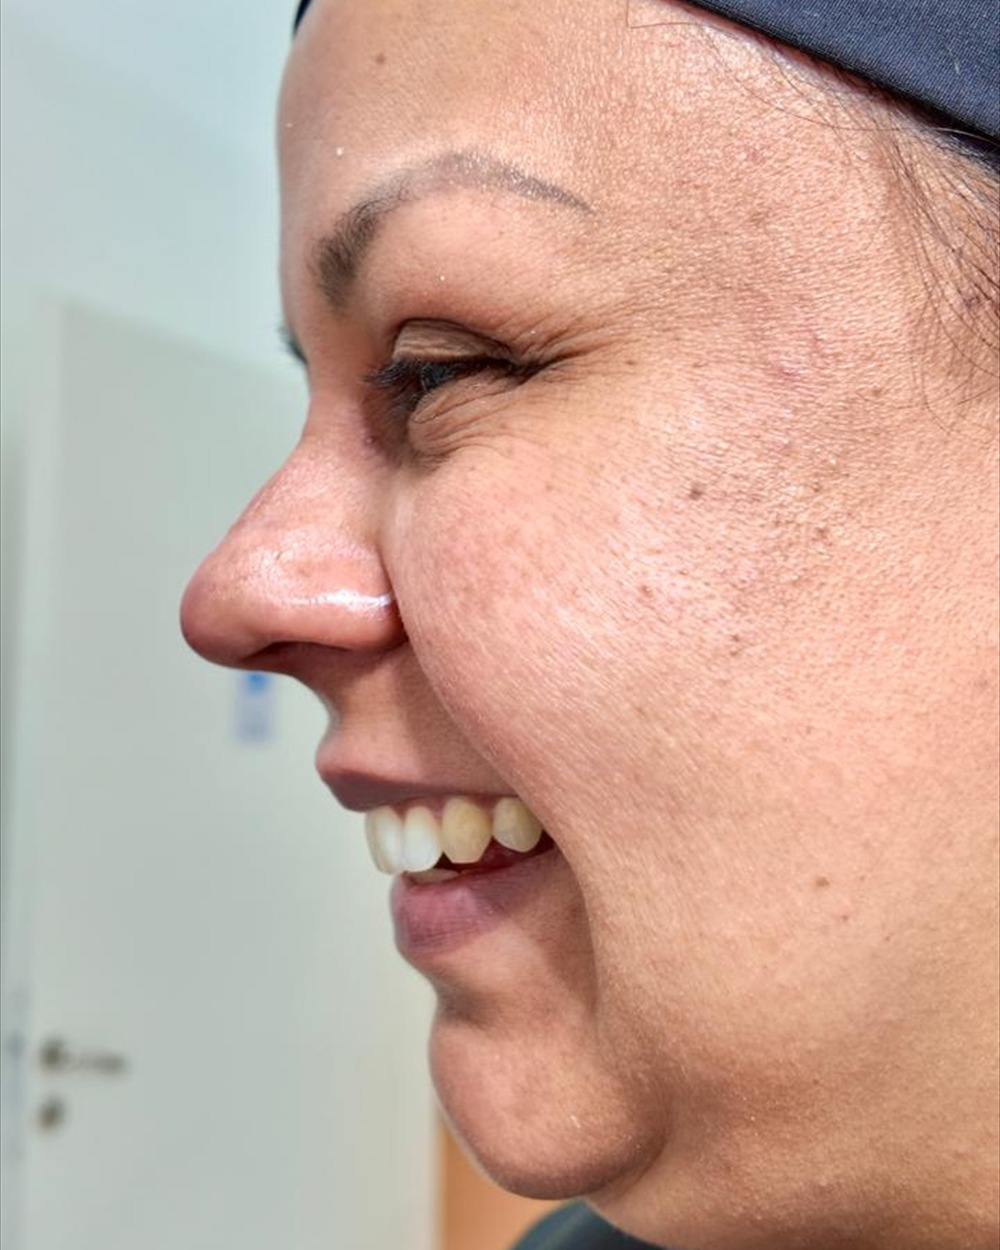
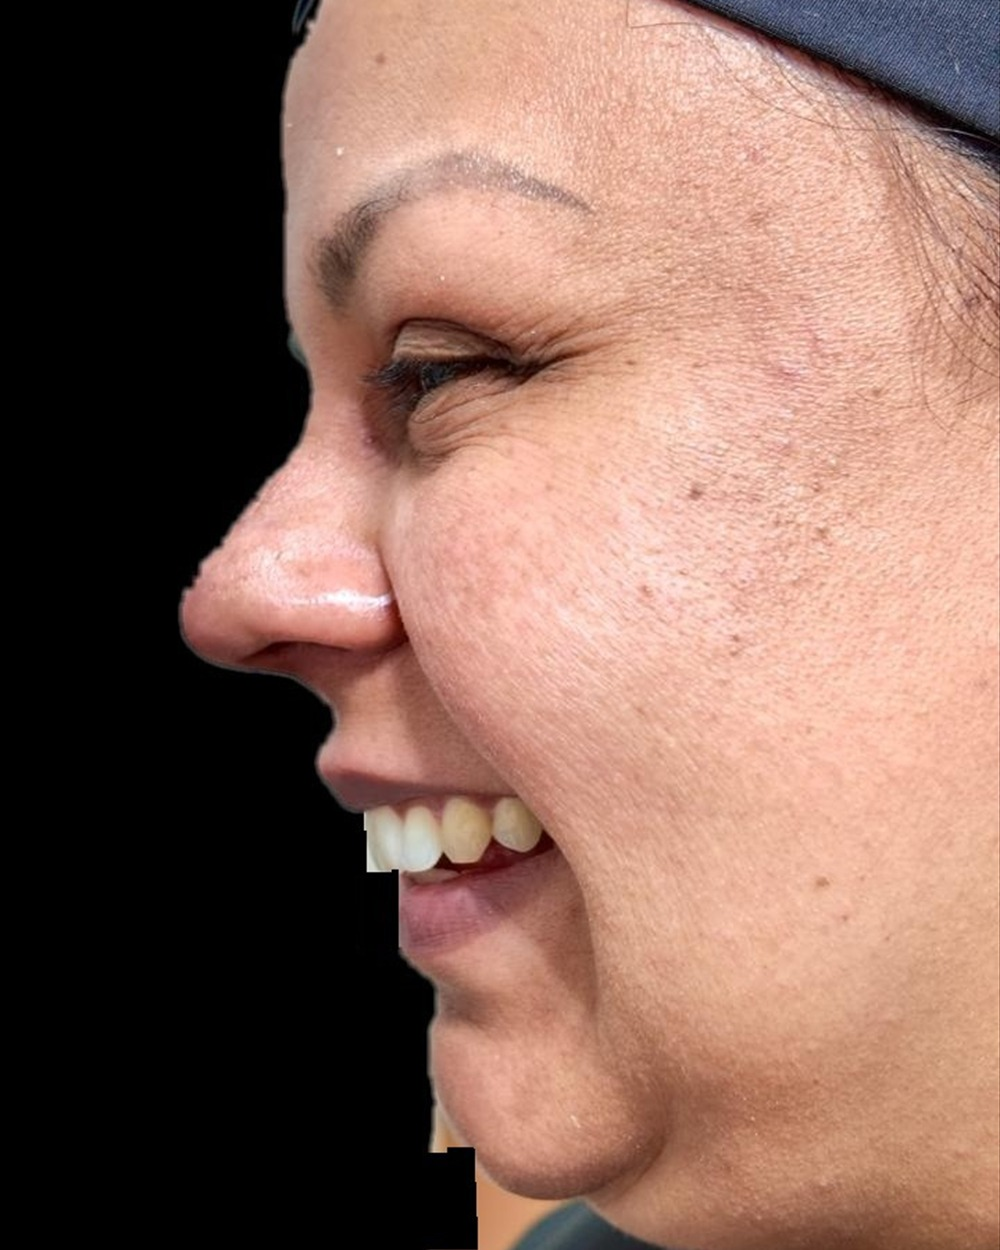
Fotos sin recortes, fondo negro en rino perfil y crédito de Lab Creativo

diff --git a/src/components/CompareSlider.tsx b/src/components/CompareSlider.tsx
@@ -77,12 +77,12 @@ export function CompareSlider({ before, after, labels = ['Antes', 'Después'], r
       >
         {/* DESPUÉS (base) */}
         <div className="absolute inset-0">
-          {a.status === 'ready' ? <img src={assetUrl(after.src)} alt={after.label} className="size-full object-cover transition-transform duration-[1.6s] ease-[cubic-bezier(.22,1,.36,1)] group-hover:scale-[1.015]" draggable={false} loading="eager" /> : <Placeholder slot={after} compact />}
+          {a.status === 'ready' ? <img src={assetUrl(after.src)} alt={after.label} className="size-full object-contain" draggable={false} loading="eager" /> : <Placeholder slot={after} compact />}
         </div>
         {/* ANTES (recortado) */}
         <motion.div className="absolute inset-0" style={{ clipPath: clip }}>
           {b.status === 'ready' ? (
-            <img src={assetUrl(before.src)} alt={before.label} className="size-full object-cover transition-transform duration-[1.6s] ease-[cubic-bezier(.22,1,.36,1)] group-hover:scale-[1.015]" draggable={false} loading="eager" />
+            <img src={assetUrl(before.src)} alt={before.label} className="size-full object-contain" draggable={false} loading="eager" />
           ) : (
             <div className="absolute inset-0 bg-film-2">
               <Placeholder slot={before} compact />

diff --git a/src/components/Media.tsx b/src/components/Media.tsx
@@ -128,7 +128,7 @@ export function Photo({ id, slot: slotProp, tag, caption, guide, fit = 'natural'
                   height={st.h}
                   loading="eager"
                   decoding="async"
-                  className={`size-full ${fit === 'contain' ? 'object-contain' : 'object-cover'} transition-transform duration-[1.6s] ease-[cubic-bezier(.22,1,.36,1)] group-hover:scale-[1.015]`}
+                  className="size-full object-contain"
                 />
               </motion.button>
             ) : (
@@ -367,7 +367,7 @@ function SyncedFrame({ id, tag, ratio, fill, rotate, sideways, playing, isMaster
                 onVolumeChange={(e) => {
                   if (!e.currentTarget.muted) e.currentTarget.muted = true
                 }}
-                className="pointer-events-none absolute left-1/2 top-1/2 max-w-none object-cover"
+                className="pointer-events-none absolute left-1/2 top-1/2 max-w-none object-contain"
                 style={{
                   width: sideways ? '100cqh' : '100cqw',
                   height: sideways ? '100cqw' : '100cqh',

diff --git a/src/components/Chrome.tsx b/src/components/Chrome.tsx
@@ -59,7 +59,10 @@ export function ProgressRail() {
         <span className="t-label text-[0.73rem] text-ink transition-opacity duration-500" style={{ opacity: hint ? 1 : 0 }}>
           {hint || '·'}
         </span>
-        <div className="pointer-events-auto t-label flex w-80 items-center justify-end gap-4 text-[0.7rem] text-stone">
+        <div className="pointer-events-auto t-label flex min-w-80 items-center justify-end gap-4 whitespace-nowrap text-[0.7rem] text-stone">
+          <span className="mr-3">
+            Web desarrollada por <span className="text-ink">@ajacreativelab</span> — Lab Creativo
+          </span>
           {presenting && <span className="text-accent">● Presentando</span>}
           <button onClick={prev} aria-label="Anterior" className="px-1 text-[0.94rem] hover:text-ink">←</button>
           <span className="t-data text-[0.78rem]">{String(Math.round(p * 100)).padStart(3, '0')}%</span>
